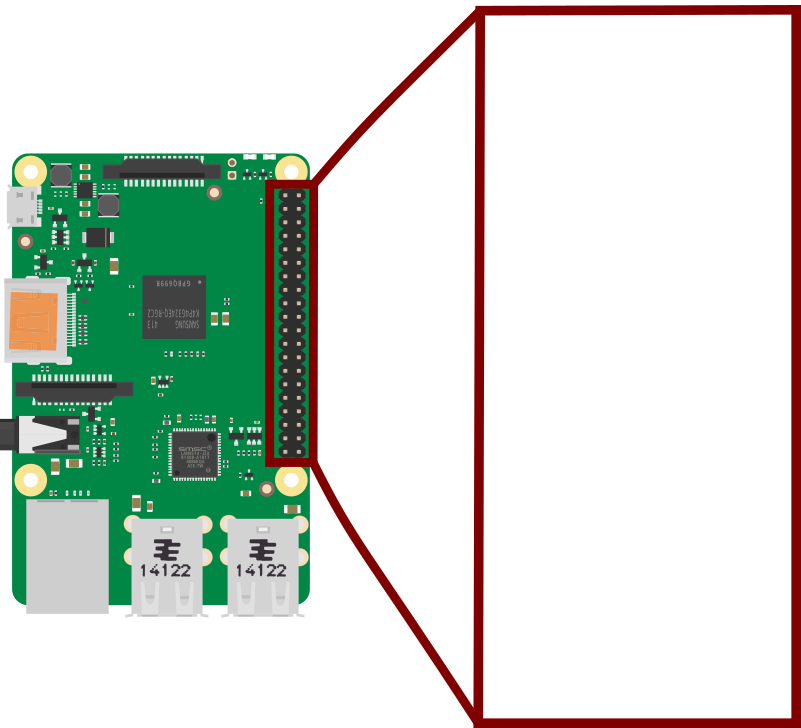
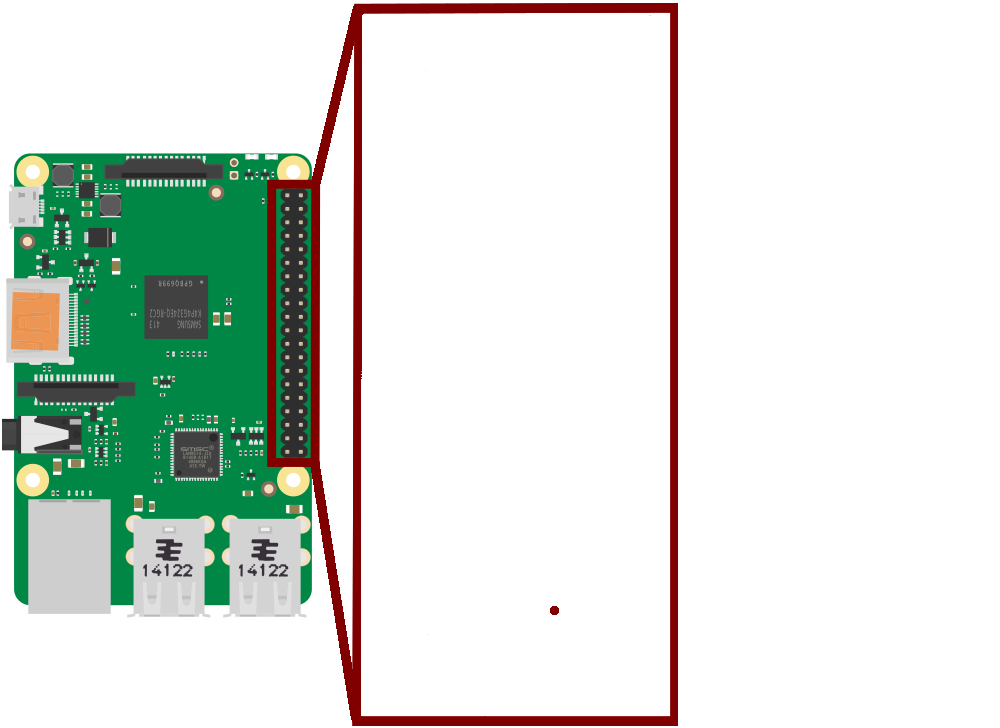
tinkering with image placement

diff --git a/src/main/java/layouts/xmlGenerics/AbstractDeviceXmlGenerator.java b/src/main/java/layouts/xmlGenerics/AbstractDeviceXmlGenerator.java
@@ -157,10 +157,10 @@ public abstract class AbstractDeviceXmlGenerator implements DeviceXmlGenerator {
 
     private Node createGpioGridPaneColumnConstraints() {
         Element columnConstraints = DOC.createElement("columnConstraints");
-        columnConstraints.appendChild(getColumnConstraint("85.0", null, null));
-        columnConstraints.appendChild(getColumnConstraint("90.0", null, null));
-        columnConstraints.appendChild(getColumnConstraint("396.0", "RIGHT", null));
-        columnConstraints.appendChild(getColumnConstraint("153.0", "RIGHT", null));
+        columnConstraints.appendChild(getColumnConstraint("0.0", null, null));
+        columnConstraints.appendChild(getColumnConstraint("90.0", "RIGHT", null));
+        columnConstraints.appendChild(getColumnConstraint("270.0", "RIGHT", null));
+        columnConstraints.appendChild(getColumnConstraint("85.0", "RIGHT", null));
         columnConstraints.appendChild(getColumnConstraint("168.0", "LEFT", "ALWAYS"));
         return columnConstraints;
     }
@@ -277,7 +277,7 @@ public abstract class AbstractDeviceXmlGenerator implements DeviceXmlGenerator {
         imageView.appendChild(image);
         Element gridPaneMargin = DOC.createElement("GridPane.margin");
         Element insets = DOC.createElement("Insets");
-        insets.setAttribute("top", "26.0");
+        insets.setAttribute("top", "15.0");
         gridPaneMargin.appendChild(insets);
         imageView.appendChild(gridPaneMargin);
         return imageView;

diff --git a/src/main/java/layouts/controllers/MasterWindowController.java b/src/main/java/layouts/controllers/MasterWindowController.java
@@ -150,9 +150,9 @@ public class MasterWindowController implements Initializable {
     private void initializeDeviceTree() {
         DoubleProperty splitPaneDividerPosition = splitPane.getDividers().get(0).positionProperty();
         splitPaneDividerPosition.addListener((obs, oldPos, newPos)
-                -> deviceTree.setSelected(newPos.doubleValue() > 0.05));
+                -> deviceTree.setSelected(newPos.doubleValue() < 0.95));
         deviceTree.setOnAction(event -> {
-            splitPane.setDividerPositions(deviceTree.isSelected() ? 0.25 : 0.0);
+            splitPane.setDividerPositions(deviceTree.isSelected() ? 0.70 : 1.0);
         });
         TreeItem<Object> root = new TreeItem<>("devices", new ImageView(DEVICES_IMG));
         TreeItem<Object> activeBranch = new TreeItem<>("active", new ImageView(ACTIVE_IMG));
